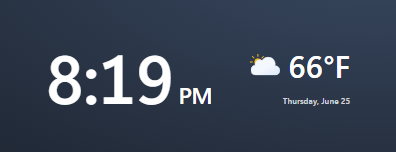
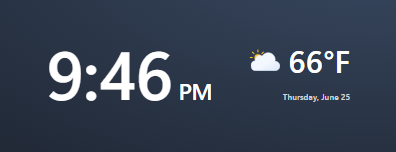
v2.0.78: Clock Weather Card - center clock vertically (equal top/bottom padding at any size) + brushed effect clipped to rounded corners

Changed region(s): [[0.1212, 0.3158, 0.5455, 0.7105], [0.6061, 0.3158, 0.9091, 0.5263], [0.697, 0.6053, 0.9091, 0.7105]]

diff --git a/src/cards/clock-weather-card/ted-clock-weather-card.ts b/src/cards/clock-weather-card/ted-clock-weather-card.ts
@@ -30,9 +30,9 @@ const DATE_WEIGHT = "500";
 /** "12:22" should occupy this fraction of the card width at the default (Large) size. */
 const CLOCK_WIDTH_FRACTION = 0.65;
 /** "Saturday, June 22" should occupy this fraction of the card width at the default size. */
-const DATE_WIDTH_FRACTION = 0.33;
+const DATE_WIDTH_FRACTION = 0.328125;
 /** The weather block (icon + temperature) should occupy this fraction of the card width at the default size. */
-const WEATHER_WIDTH_FRACTION = 0.28;
+const WEATHER_WIDTH_FRACTION = 0.328125;
 /** AM/PM suffix font-size as a fraction of the clock font-size. */
 const AMPM_SCALE = 1 / 3;
 /**
@@ -430,10 +430,34 @@ export class TedClockWeatherCard extends LitElement implements LovelaceCard {
     const weatherW = (showIcon ? 1 : 0) + (showIcon && showTemp ? 0.25 : 0) + tempTextW;
     const tempPx = weatherW > 0 ? (width * WEATHER_WIDTH_FRACTION * this._weatherFactor()) / weatherW : 0;
 
+    // Vertically recenter the clock. With line-height:1 the font leaves leading
+    // above the caps and below the baseline; for many fonts (e.g. Segoe UI /
+    // system-ui) the leading above is far larger than below, so the digits look
+    // pushed down and the top padding looks bigger — and it scales with the font
+    // size. Measure that asymmetry and lift the rows by half of it (--cwc-vshift)
+    // so the visible glyphs sit with equal space above and below.
+    let vshift = 0;
+    const vctx = this._canvas?.getContext("2d");
+    if (vctx) {
+      vctx.font = `${CLOCK_WEIGHT} 100px ${family}`;
+      const m = vctx.measureText(main);
+      const fa = m.fontBoundingBoxAscent;
+      const fd = m.fontBoundingBoxDescent;
+      const aa = m.actualBoundingBoxAscent;
+      const ad = m.actualBoundingBoxDescent;
+      if ([fa, fd, aa, ad].every((v) => typeof v === "number")) {
+        const halfLeading = (100 - fa - fd) / 2;
+        const leadAbove = halfLeading + fa - aa;
+        const leadBelow = halfLeading + fd - ad;
+        vshift = ((leadAbove - leadBelow) / 2) * (clockPx / 100);
+      }
+    }
+
     el.style.setProperty("--cwc-clock-size", `${clockPx}px`);
     el.style.setProperty("--cwc-date-size", `${datePx}px`);
     el.style.setProperty("--cwc-temp-size", `${tempPx}px`);
     el.style.setProperty("--cwc-icon-size", `${tempPx}px`);
+    el.style.setProperty("--cwc-vshift", `${vshift}px`);
   }
 
   protected render(): TemplateResult | typeof nothing {
@@ -559,15 +583,17 @@ export class TedClockWeatherCard extends LitElement implements LovelaceCard {
         display: block;
       }
 
+      /* position/isolation/overflow clip the brushed-metal overlay to the
+         rounded corners (same trio the other ted-* cards use). No height:100%
+         though: the card hugs its content so Home Assistant's Sections "auto
+         height" grid (grid-auto-rows: auto) measures the real clock height.
+         With height:100% the card filled the grid row and echoed that height
+         back, so once the width-driven clock font changed the auto row stayed
+         locked taller than the content (empty space below). */
       ha-card {
-        box-sizing: border-box;
-        display: flex;
-        flex-direction: column;
-        justify-content: center;
-        /* Fill a fixed-height cell, but collapse to the content height when the
-           grid uses auto height (so the card reports its true height to HA and
-           never leaves empty space). */
-        min-height: 100%;
+        position: relative;
+        isolation: isolate;
+        overflow: hidden;
       }
 
       ha-card.is-transparent {
@@ -582,7 +608,7 @@ export class TedClockWeatherCard extends LitElement implements LovelaceCard {
         box-sizing: border-box;
         display: flex;
         flex-direction: column;
-        justify-content: center;
+        justify-content: flex-end;
         gap: 4px;
         width: 100%;
         min-height: 56px;
@@ -594,6 +620,11 @@ export class TedClockWeatherCard extends LitElement implements LovelaceCard {
       .row {
         position: relative;
         width: 100%;
+        /* Lift the rows by --cwc-vshift (measured per render) so the clock's
+           visible glyphs are centered: line-height:1 leaves more leading above
+           the caps than below the baseline for many fonts, which would push the
+           clock down and make the top padding look larger. */
+        transform: translateY(calc(-1 * var(--cwc-vshift, 0px)));
       }
 
       .clock-row {

diff --git a/README.md b/README.md
@@ -607,16 +607,21 @@ px, matching a button).
 The newest entry below is used as the GitHub Release notes by the release workflow, so it shows in
 the Home Assistant / HACS **update** dialog when you update. Newest first.
 
+### v2.0.78
+
+- Clock Weather Card: the clock now sits with **equal space above and below** at any size — previously some fonts (such as the default Segoe UI / system font) left a larger gap above the digits than below, and that gap grew as the clock got bigger.
+- Clock Weather Card: the **Brushed effect** no longer bleeds past the card's rounded corners.
+
 ### v2.0.77
 
 - Clock Weather Card: fixed extra empty space below the card when **Auto height** is on — the card now reports its true content height (so it hugs the clock), while still filling and vertically centering its content when given a fixed height.
 
+<details>
+<summary>Previous release notes</summary>
+
 ### v2.0.76
 
 - Clock Weather Card: the **weather size no longer changes with the clock size** — the clock, date, and weather are each sized from the card width independently (clock fills ~65%, date and weather ~33% each), and the weather stays a constant size regardless of the live temperature.
-
-<details>
-<summary>Previous release notes</summary>
 
 ### v2.0.75
 